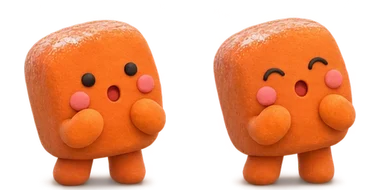
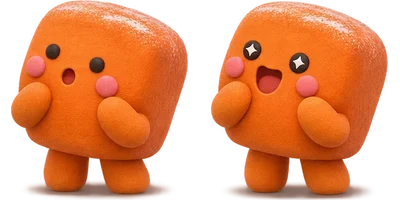
Açılış: hamuru gerçekten tutan çekenler ve ortaya dönük izleyenler
Claude-Session: https://claude.ai/code/session_013YjY38wA9HkTsRWqx1GxrD

diff --git a/www/sw.js b/www/sw.js
@@ -1,6 +1,6 @@
 // Çevrimdışı: önbellekten anında aç, arkada güncelle (stale-while-revalidate).
 // Yeni dosya eklenince F listesine girer (robot www/ ile listeyi karşılaştırır: tools/hakem.cjs "sw.liste").
-const C = 'hamur-v49', F = ['./', 'index.html', 'style.css', 'i18n.js', 'ses.js', 'olcum.js', 'ads.js', 'shop.js', 'app.js', 'game.js', 'ekran.js', 'acilis.js', 'bolumler.js', 'rules/cekirdek.js', 'rules/cozucu.js', 'font/baloo-latin-ext.woff2', 'font/baloo-latin.woff2', 'font/titan-latin-ext.woff2', 'font/titan-latin.woff2', 'img/ac-kirmizi.webp', 'img/ac-mavi.webp', 'img/ac-mor.webp', 'img/ac-sari.webp', 'img/ac-turuncu.webp', 'img/ac-yesil.webp', 'img/acilis.webp', 'img/hamur-serit.webp', 'img/acilis-grup.webp', 'img/ada.webp', 'img/akrep.webp', 'img/ayarlar.webp', 'img/bastan.webp', 'img/blok.webp', 'img/bulut-1.webp', 'img/bulut-2.webp', 'img/bulut-3.webp', 'img/bulut-4.webp', 'img/bulut-5.webp', 'img/bulut-6.webp', 'img/canta.webp', 'img/damgalar.webp', 'img/doku.webp', 'img/duraklat.webp', 'img/duvar.webp', 'img/el.webp', 'img/figur-1.webp', 'img/figur-2.webp', 'img/figur-3.webp', 'img/figur-4.webp', 'img/figur-5.webp', 'img/figur-6.webp', 'img/geri.webp', 'img/girdap.webp', 'img/gok.webp', 'img/gok2.webp', 'img/gunluk.webp', 'img/hap-kirmizi.webp', 'img/hap-mavi.webp', 'img/hap-mor.webp', 'img/hap-sari.webp', 'img/hap-turuncu.webp', 'img/hap-yesil.webp', 'img/hucre.webp', 'img/ikon-192.png', 'img/ikon-512.png', 'img/kadran.webp', 'img/kalp-eriyor.webp', 'img/kalp.webp', 'img/kapat.webp', 'img/kar-1.webp', 'img/kar-2.webp', 'img/kar-3.webp', 'img/kar-3-kare.webp', 'img/kar-4.webp', 'img/kar-4-kare.webp', 'img/kar-5.webp', 'img/kar-6.webp', 'img/kayip-sure.webp', 'img/kayip-yapisma.webp', 'img/kazanc.webp', 'img/kilit.webp', 'img/klaket.webp', 'img/kurabiye-bos.webp', 'img/kurabiye-kilitli.webp', 'img/kurabiye-siradaki.webp', 'img/kurabiye-tamam.webp', 'img/logo.webp', 'img/makas-kapali.webp', 'img/makas.webp', 'img/n-ay.webp', 'img/n-cirpici-1.webp', 'img/n-cirpici-2.webp', 'img/n-donut.webp', 'img/n-ev.webp', 'img/n-merdiven.webp', 'img/n-oklava.webp', 'img/n-seker.webp', 'img/oynat.webp', 'img/panel.webp', 'img/parcacik.webp', 'img/saat.webp', 'img/serit.webp', 'img/ses.webp', 'img/sessiz.webp', 'img/sus-1.webp', 'img/sus-10.webp', 'img/sus-2.webp', 'img/sus-3.webp', 'img/sus-4.webp', 'img/sus-5.webp', 'img/sus-6.webp', 'img/sus-7.webp', 'img/sus-8.webp', 'img/sus-9.webp', 'img/tepsi.webp', 'img/top-kirmizi.webp', 'img/top-mor.webp', 'img/top-sari.webp', 'img/top-yesil.webp', 'img/yildiz-bos.webp', 'img/yildiz-yuz.webp', 'img/yildiz.webp', 'img/yol.webp', 'img/yuz-dikey.webp', 'img/yuzler.webp', ...['de', 'es', 'pt-BR', 'fr'].map(l => `lang/${l}.js`), 'ses/kayip.mp3', 'ses/kazan.mp3', 'ses/kes.mp3', 'ses/muzik.mp3', 'ses/otur.mp3', 'ses/yapis.mp3', 'manifest.json'];
+const C = 'hamur-v50', F = ['./', 'index.html', 'style.css', 'i18n.js', 'ses.js', 'olcum.js', 'ads.js', 'shop.js', 'app.js', 'game.js', 'ekran.js', 'acilis.js', 'bolumler.js', 'rules/cekirdek.js', 'rules/cozucu.js', 'font/baloo-latin-ext.woff2', 'font/baloo-latin.woff2', 'font/titan-latin-ext.woff2', 'font/titan-latin.woff2', 'img/ac-kirmizi.webp', 'img/ac-mavi.webp', 'img/ac-mor.webp', 'img/ac-sari.webp', 'img/ac-turuncu.webp', 'img/ac-yesil.webp', 'img/acilis.webp', 'img/hamur-dilim.webp', 'img/hamur-serit.webp', 'img/acilis-grup.webp', 'img/ada.webp', 'img/akrep.webp', 'img/ayarlar.webp', 'img/bastan.webp', 'img/blok.webp', 'img/bulut-1.webp', 'img/bulut-2.webp', 'img/bulut-3.webp', 'img/bulut-4.webp', 'img/bulut-5.webp', 'img/bulut-6.webp', 'img/canta.webp', 'img/damgalar.webp', 'img/doku.webp', 'img/duraklat.webp', 'img/duvar.webp', 'img/el.webp', 'img/figur-1.webp', 'img/figur-2.webp', 'img/figur-3.webp', 'img/figur-4.webp', 'img/figur-5.webp', 'img/figur-6.webp', 'img/geri.webp', 'img/girdap.webp', 'img/gok.webp', 'img/gok2.webp', 'img/gunluk.webp', 'img/hap-kirmizi.webp', 'img/hap-mavi.webp', 'img/hap-mor.webp', 'img/hap-sari.webp', 'img/hap-turuncu.webp', 'img/hap-yesil.webp', 'img/hucre.webp', 'img/ikon-192.png', 'img/ikon-512.png', 'img/kadran.webp', 'img/kalp-eriyor.webp', 'img/kalp.webp', 'img/kapat.webp', 'img/kar-1.webp', 'img/kar-2.webp', 'img/kar-3.webp', 'img/kar-3-kare.webp', 'img/kar-4.webp', 'img/kar-4-kare.webp', 'img/kar-5.webp', 'img/kar-6.webp', 'img/kayip-sure.webp', 'img/kayip-yapisma.webp', 'img/kazanc.webp', 'img/kilit.webp', 'img/klaket.webp', 'img/kurabiye-bos.webp', 'img/kurabiye-kilitli.webp', 'img/kurabiye-siradaki.webp', 'img/kurabiye-tamam.webp', 'img/logo.webp', 'img/makas-kapali.webp', 'img/makas.webp', 'img/n-ay.webp', 'img/n-cirpici-1.webp', 'img/n-cirpici-2.webp', 'img/n-donut.webp', 'img/n-ev.webp', 'img/n-merdiven.webp', 'img/n-oklava.webp', 'img/n-seker.webp', 'img/oynat.webp', 'img/panel.webp', 'img/parcacik.webp', 'img/saat.webp', 'img/serit.webp', 'img/ses.webp', 'img/sessiz.webp', 'img/sus-1.webp', 'img/sus-10.webp', 'img/sus-2.webp', 'img/sus-3.webp', 'img/sus-4.webp', 'img/sus-5.webp', 'img/sus-6.webp', 'img/sus-7.webp', 'img/sus-8.webp', 'img/sus-9.webp', 'img/tepsi.webp', 'img/top-kirmizi.webp', 'img/top-mor.webp', 'img/top-sari.webp', 'img/top-yesil.webp', 'img/yildiz-bos.webp', 'img/yildiz-yuz.webp', 'img/yildiz.webp', 'img/yol.webp', 'img/yuz-dikey.webp', 'img/yuzler.webp', ...['de', 'es', 'pt-BR', 'fr'].map(l => `lang/${l}.js`), 'ses/kayip.mp3', 'ses/kazan.mp3', 'ses/kes.mp3', 'ses/muzik.mp3', 'ses/otur.mp3', 'ses/yapis.mp3', 'manifest.json'];
 self.addEventListener('install', e => e.waitUntil(caches.open(C).then(c => c.addAll(F)).then(() => self.skipWaiting())));
 self.addEventListener('activate', e => e.waitUntil(caches.keys().then(k => Promise.all(k.filter(x => x !== C).map(x => caches.delete(x)))).then(() => self.clients.claim())));
 self.addEventListener('fetch', e => {

diff --git a/www/style.css b/www/style.css
@@ -618,3 +618,13 @@ body[data-dunya="2"].oyun-acik::before{content:'';position:fixed;inset:0;z-index
 /* izleyenler ortadaki çekişmeye bakar: soldaki ikisi sağa, sağdaki ikisi sola */
 .acilis .iz.turuncu,.acilis .iz.mor{transform:scaleX(-1)}
 .acilis .izle{top:calc(50% + 100px)}
+/* açılış (son): çekenlerin elleri hamuru gerçekten tutuyor; aradaki uzayan kısım aynı hamurdan kesilmiş dilim */
+.acilis .cek{height:auto;aspect-ratio:3.828;width:min(96vw,440px);transform:translate(-50%,-50%)}
+.acilis .ck{width:38%;height:100%;aspect-ratio:auto;bottom:auto;top:0;background-size:400% 100%}
+.acilis .mavi{right:calc(50% + 3% + var(--y) * 9%)}
+.acilis .kirmizi{left:calc(50% + 3% + var(--y) * 9%)}
+.acilis .hs{z-index:0;bottom:auto;top:47.58%;height:26.06%;width:calc(6% + var(--y) * 18% + 2px);background:url(img/hamur-dilim.webp) 0 0/100% 100% repeat-x;filter:none}
+.acilis .izle{top:calc(50% + 90px);width:min(92vw,400px)}
+.acilis .iz.turuncu,.acilis .iz.mor{transform:none}   /* yeni görselde zaten ortaya dönükler */
+.acilis p{top:calc(50% + 46px)}
+.acilis .cek{width:min(104vw,500px)}
